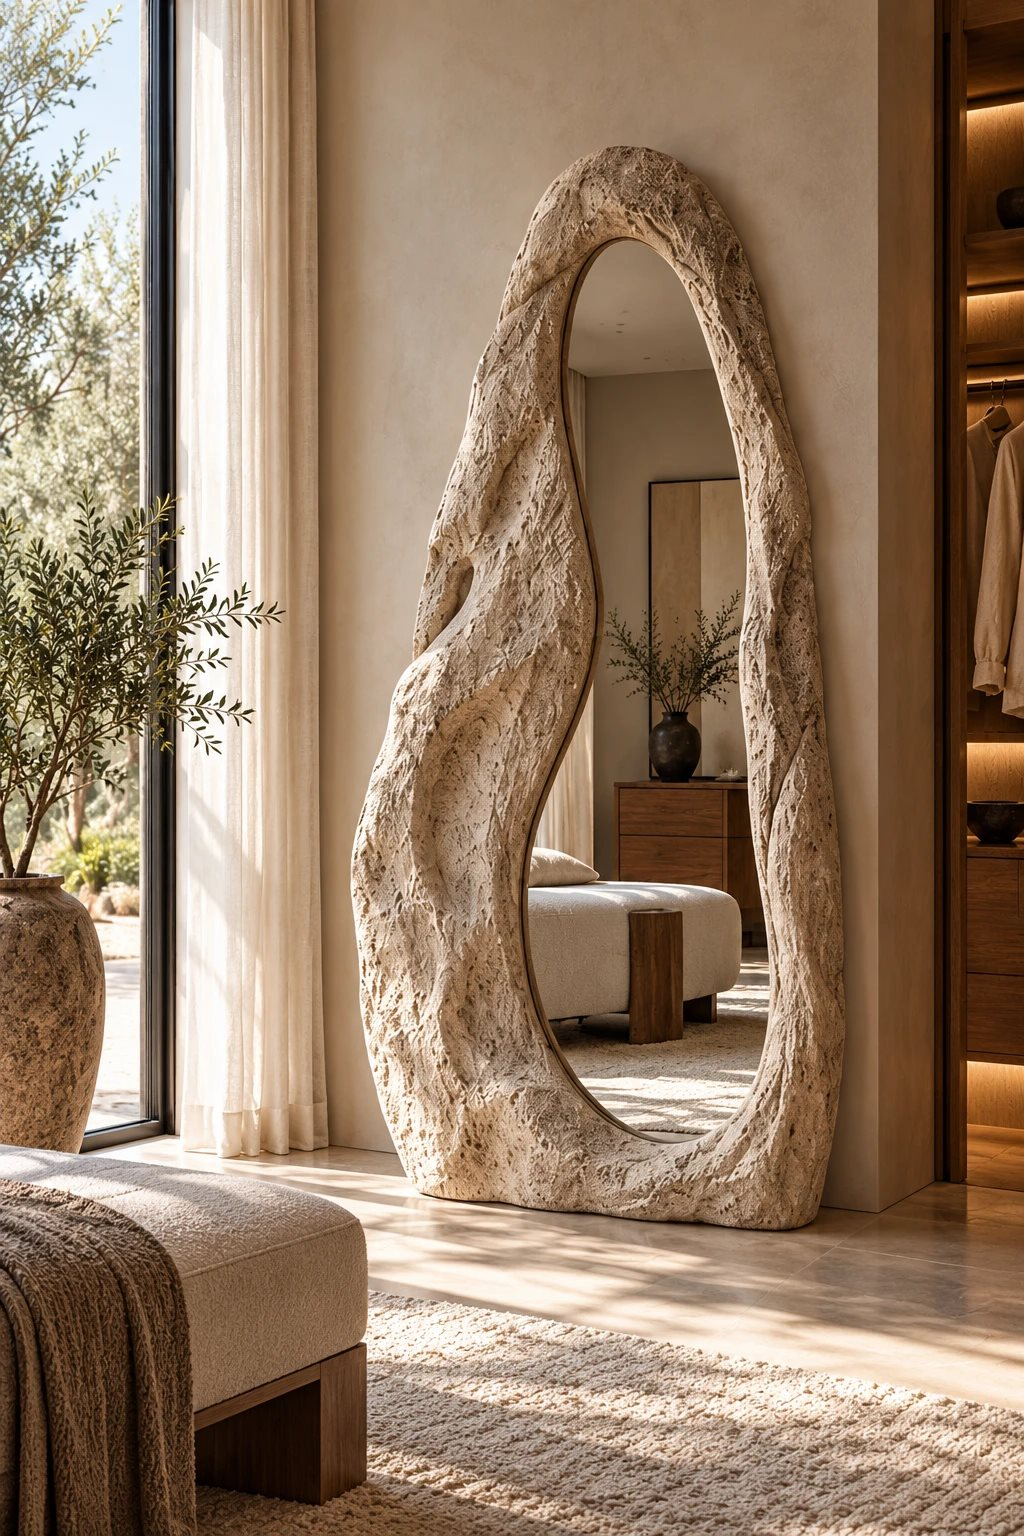
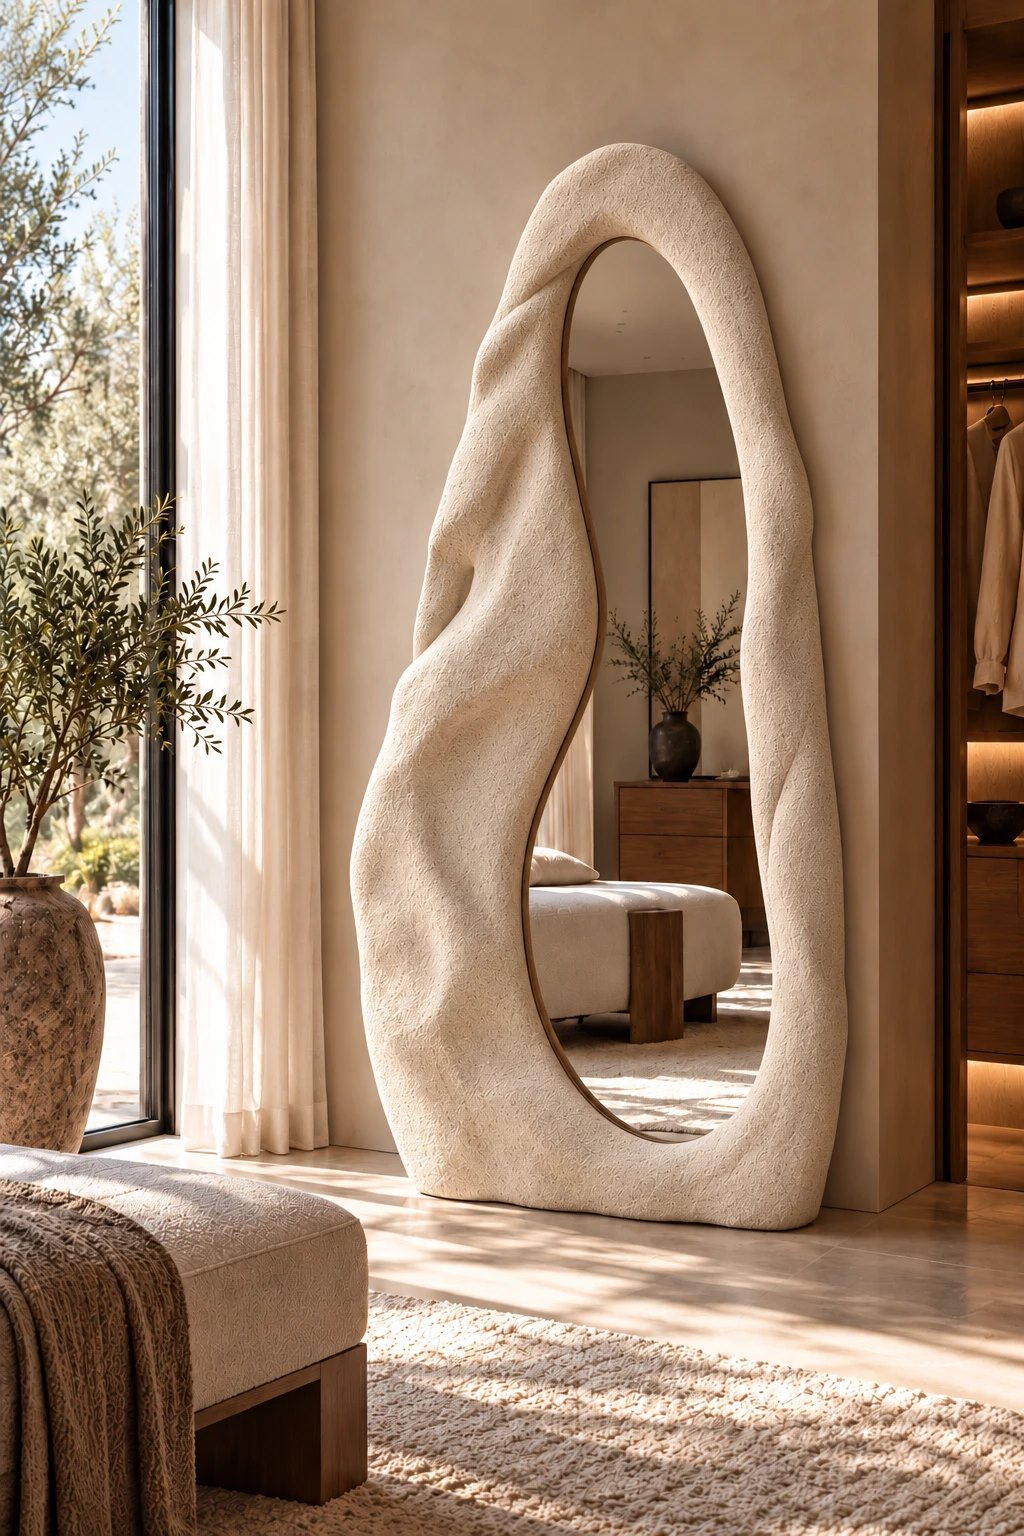
Add files via upload

diff --git a/assets/js/viewer3d.js b/assets/js/viewer3d.js
@@ -120,11 +120,11 @@ export function mountMonolith(el, opts = {}) {
 
   // ── geometry ──
   const table = new THREE.Group();
-  const top = new THREE.Mesh(new RoundedBoxGeometry(W, TOP_H, W, 3, 0.0035), stoneMats);
+  const top = new THREE.Mesh(planarUVs(new RoundedBoxGeometry(W, TOP_H, W, 3, 0.0035)), stoneMats);
   top.position.y = H - TOP_H / 2;
   const core = new THREE.Mesh(new THREE.BoxGeometry(CORE_W, GAP_H + 0.002, CORE_W), new THREE.MeshStandardMaterial({ color: '#070504', roughness: 1, envMapIntensity: 0 }));
   core.position.y = BASE_H + GAP_H / 2;
-  const base = new THREE.Mesh(new RoundedBoxGeometry(BASE_W, BASE_H, BASE_W, 2, 0.0025), baseMats);
+  const base = new THREE.Mesh(planarUVs(new RoundedBoxGeometry(BASE_W, BASE_H, BASE_W, 2, 0.0025)), baseMats);
   base.position.y = BASE_H / 2;
   [top, core, base].forEach(m => { m.castShadow = m.receiveShadow = true; table.add(m); });
   scene.add(table);
@@ -203,6 +203,31 @@ export function mountMonolith(el, opts = {}) {
     renderNow: () => renderer.render(scene, camera),
     dispose,
   };
+}
+
+// RoundedBoxGeometry derives UVs from vertex normals, which squeezes the texture into a band
+// along the edges of thin, wide boxes. Re-map every face by planar projection instead
+// (u along the face's horizontal axis, v along its height), so the stone and grain run evenly.
+function planarUVs(geo) {
+  geo.computeBoundingBox();
+  const { min } = geo.boundingBox, size = geo.boundingBox.getSize(new THREE.Vector3());
+  const pos = geo.attributes.position, uv = geo.attributes.uv;
+  for (const g of geo.groups) {
+    for (let i = g.start; i < g.start + g.count; i++) {
+      const x = (pos.getX(i) - min.x) / size.x, y = (pos.getY(i) - min.y) / size.y, z = (pos.getZ(i) - min.z) / size.z;
+      const [u, v] = [
+        [1 - z, y],   // +x
+        [z, y],       // −x
+        [x, 1 - z],   // +y
+        [x, z],       // −y
+        [x, y],       // +z
+        [1 - x, y],   // −z
+      ][g.materialIndex];
+      uv.setXY(i, u, v);
+    }
+  }
+  uv.needsUpdate = true;
+  return geo;
 }
 
 function radialTexture() {
